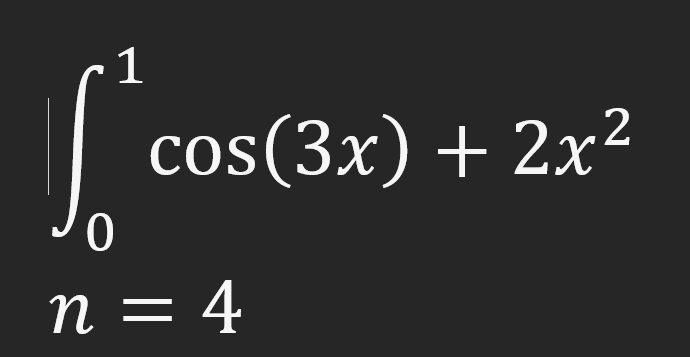
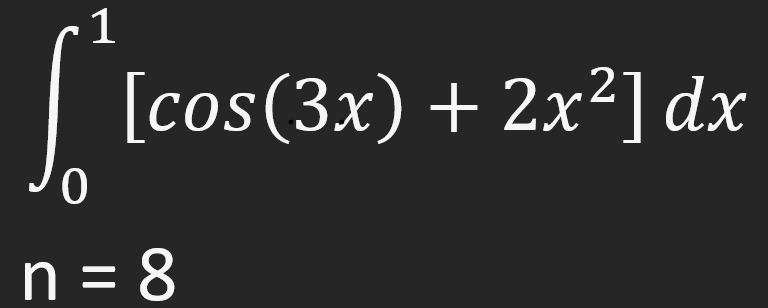
Subir ultimos problemas pendientes de la UT3

Changed region(s): [[0.0304, 0.0292, 0.9739, 0.7013], [0.1826, 0.789, 0.3652, 0.9935], [0.0304, 0.8182, 0.1522, 0.9935]]

diff --git a/src/data/UnitThreeProblemsData.ts b/src/data/UnitThreeProblemsData.ts
@@ -44,8 +44,8 @@ export const UnitThreeProblemsData : MethodProblemsData[] = [
         problems: [
             {
                 type: 1,
-                options: ["4", "5", "6", "No es posible resolver por este metodo"],
-                correct_answer: "4",
+                options: ["0.7137119241", "0.7137119251", "0.7137119231", "No es posible resolver por este metodo"],
+                correct_answer: "0.7137119251",
                 time: "5:00"
             },
             {
@@ -62,14 +62,14 @@ export const UnitThreeProblemsData : MethodProblemsData[] = [
             },
             {
                 type: 4,
-                options: ["4", "5", "6", "No es posible resolver por este metodo"],
-                correct_answer: "4",
+                options: ["0.2106501617", "0.2106501618", "0.2106501619", "No es posible resolver por este metodo"],
+                correct_answer: "0.2106501619",
                 time: "5:00"
             },
             {
                 type: 5,
-                options: ["4", "5", "6", "No es posible resolver por este metodo"],
-                correct_answer: "4",
+                options: ["0.2107967777", "0.2107967778", "0.2107967779", "No es posible resolver por este metodo"],
+                correct_answer: "0.2107967778",
                 time: "5:00"
             },
         ]
@@ -116,7 +116,7 @@ export const UnitThreeProblemsData : MethodProblemsData[] = [
         problems: [
             {
                 type: 1,
-                options: ["4", "5", "6", "No es posible resolver por este metodo"],
+                options: ["2.564314612", "2.564314613", "2.564314614", "No es posible resolver por este metodo"],
                 correct_answer: "4",
                 time: "5:00"
             },
@@ -134,13 +134,13 @@ export const UnitThreeProblemsData : MethodProblemsData[] = [
             },
             {
                 type: 4,
-                options: ["4", "5", "6", "No es posible resolver por este metodo"],
-                correct_answer: "4",
+                options: ["0.211562737", "0.211562738", "0.211562739", "No es posible resolver por este metodo"],
+                correct_answer: "0.211562739",
                 time: "5:00"
             },
             {
                 type: 5,
-                options: ["4", "5", "6", "No es posible resolver por este metodo"],
+                options: ["0.7163719863", "0.7163719864", "0.7163719865", "No es posible resolver por este metodo"],
                 correct_answer: "4",
                 time: "5:00"
             },
